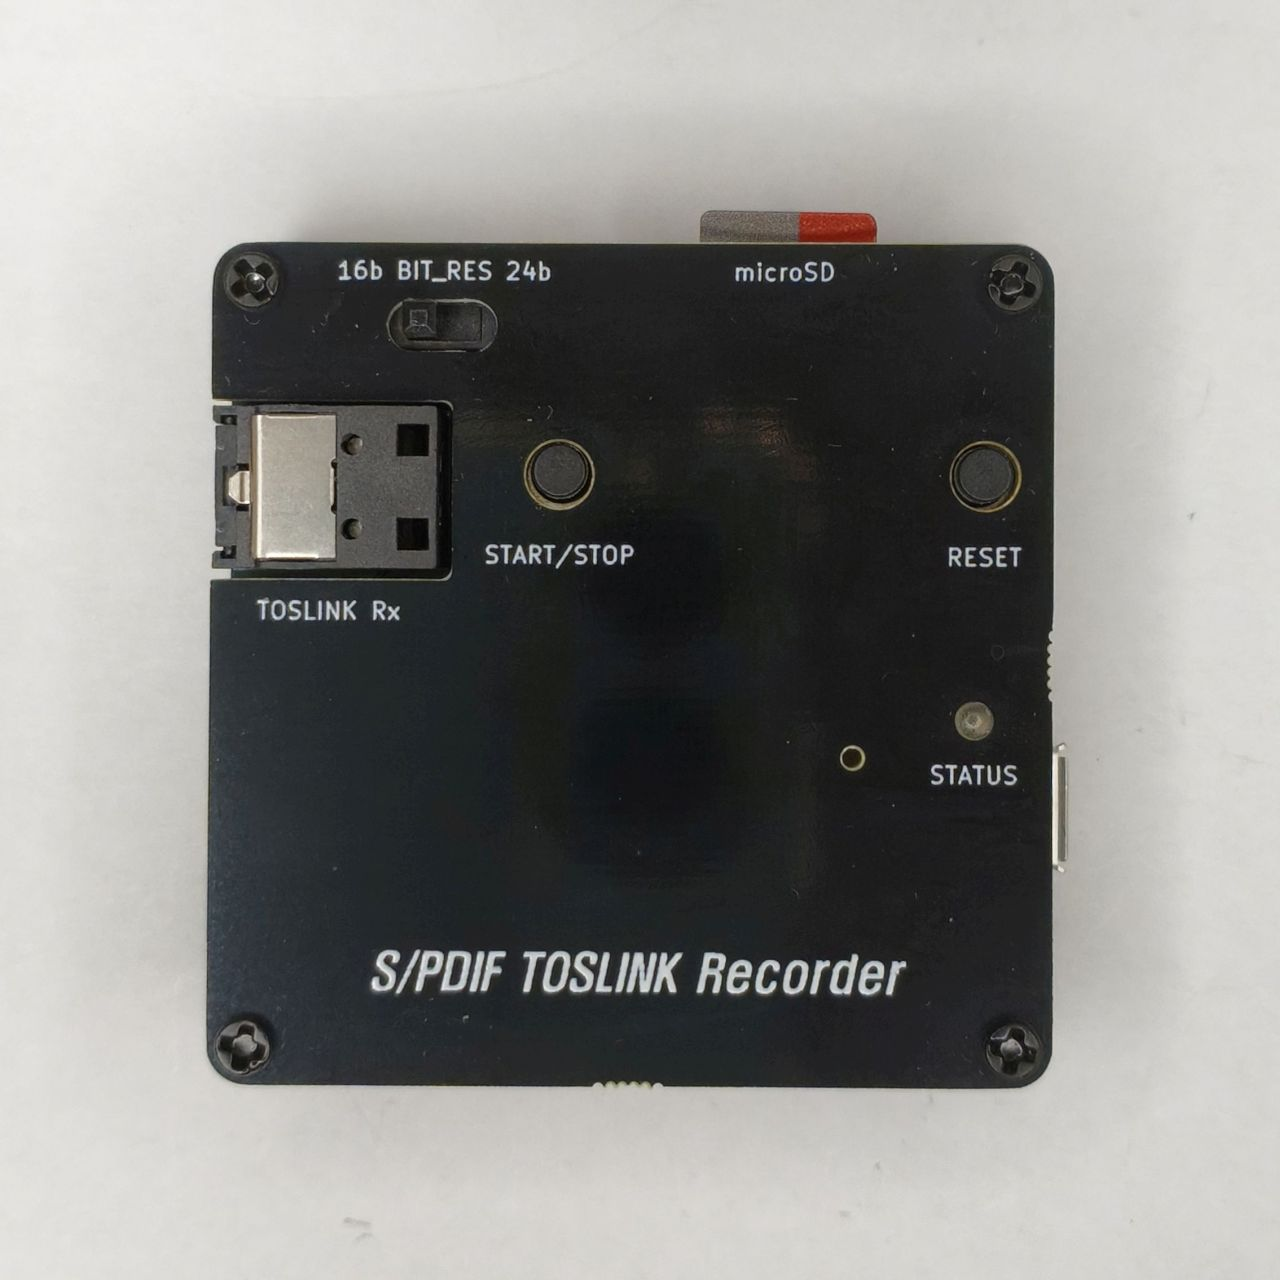
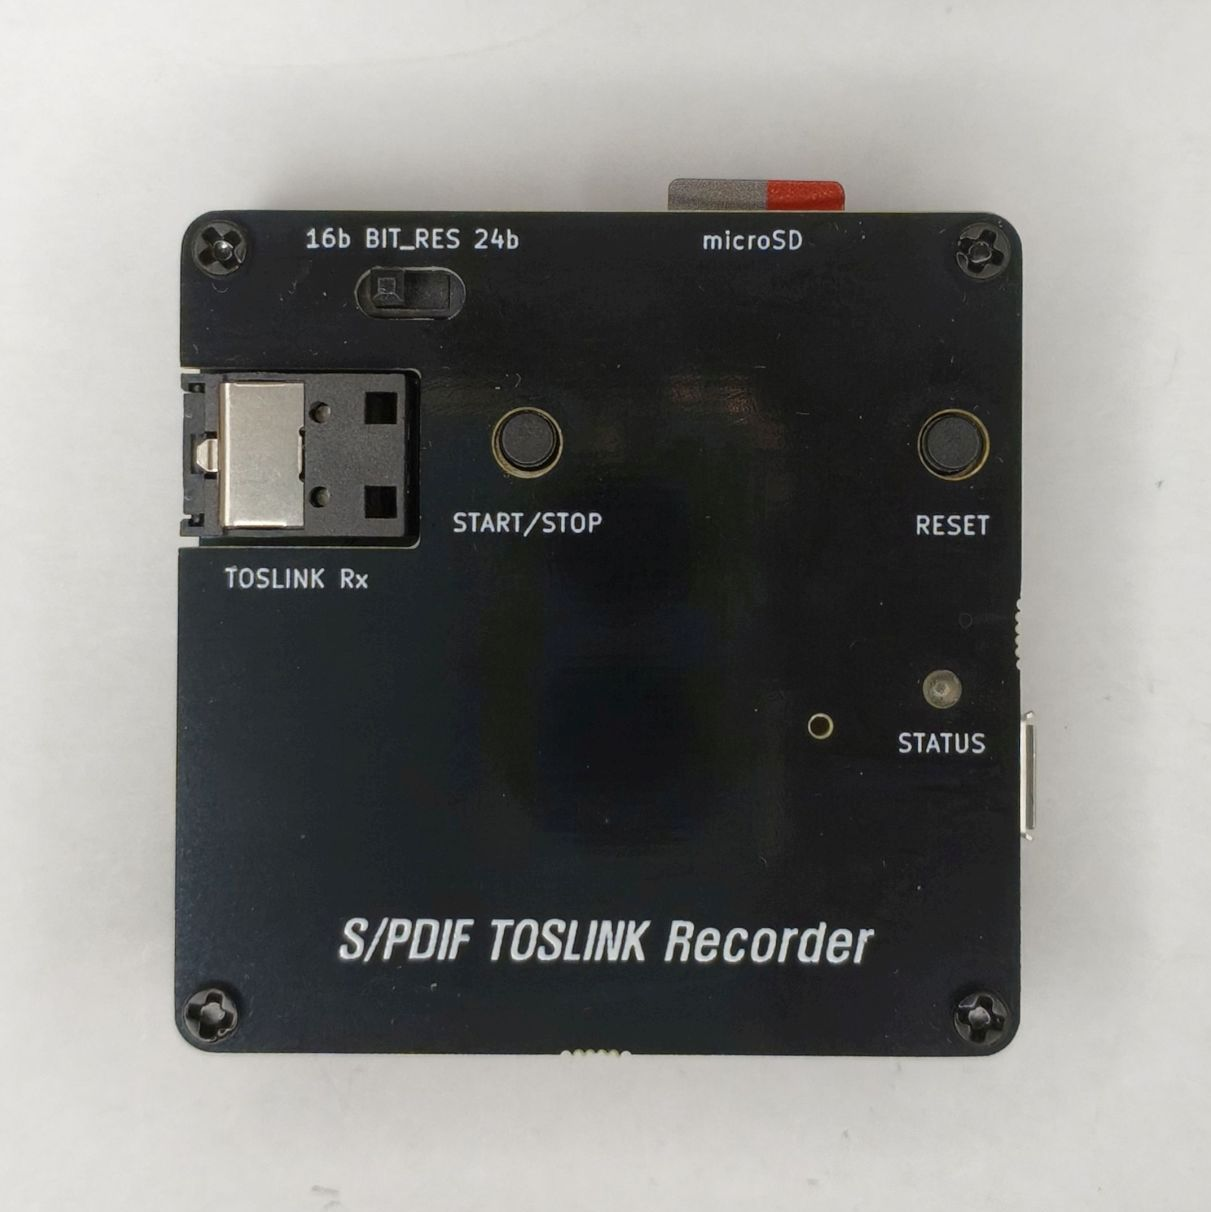
revise README.md

Changed region(s): [[0.1222, 0.1221, 0.8555, 0.8853], [0.275, 0.7327, 0.7333, 0.7937], [0.6416, 0.58, 0.7027, 0.6106]]

diff --git a/README.md b/README.md
@@ -1,6 +1,7 @@
 # S/PDIF recoder to WAV on SD card for Raspberry Pi Pico series
 
-![PCB Front](doc/pico_spdif_recorder_v1.2_inside.jpg)
+<img src="doc/pico_spdif_recorder_v1.2_front.jpg" width="320" /> <img src="doc/pico_spdif_recorder_v1.2_inside.jpg" width="320" /> 
+
 
 [![Build](https://github.com/elehobica/pico_spdif_recorder/actions/workflows/build-binaries.yml/badge.svg)](https://github.com/elehobica/pico_spdif_recorder/actions/workflows/build-binaries.yml)
 